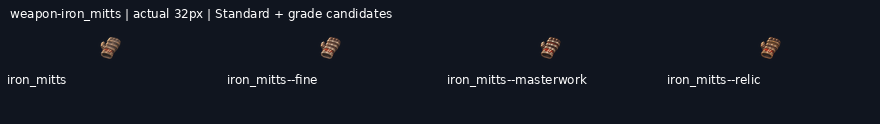
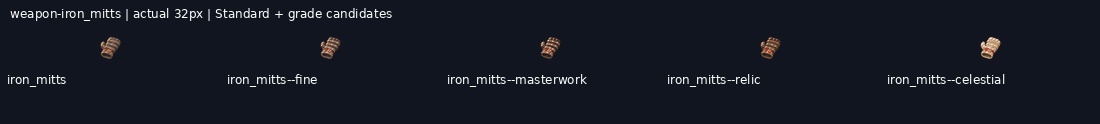
art: draw weapon-iron_mitts--celestial grade candidate

diff --git a/art/_archive/gear/2026-11-19-kept-blade-grades/HANDOFF.md b/art/_archive/gear/2026-11-19-kept-blade-grades/HANDOFF.md
@@ -1,9 +1,9 @@
 # Kept-blade grade candidates
 
-**44/68 grade candidates delivered** on `art/2026-11-19-kept-blade-grades`. Shared mailbox: https://github.com/leonpentastorm/Project-Heaven-Cry/issues/3 . See claim.json for this lane’s current Standards. Released overlapping blades reuse12 peer candidates, with3 local alternatives archived.
+**45/68 grade candidates delivered** on `art/2026-11-19-kept-blade-grades`. Shared mailbox: https://github.com/leonpentastorm/Project-Heaven-Cry/issues/3 . See claim.json for this lane’s current Standards. Released overlapping blades reuse12 peer candidates, with3 local alternatives archived.
 
 Leon requested continuous candidate production; proof approval is not fabricated. All candidates remain review-candidate, production_approved:false, implementation_ready:false, with outline.review_required:true. Exact outline is measured, never asserted unless the masks match. Per-image registration is uniform scaling/translation only, without warp, silhouette masks, filled pixels or code-drawn substitutes. The generated native remains untouched.
 
 Each image is generated, shown, technically exported, validated, committed and pushed before the next. Sources, versioned masters, exact prompts/reference hashes,256/128/64/32 exports and grade comparison sheets are retained. Standards and earlier deliveries are unchanged. This sparse checkout cannot validate omitted historical files; full-library validation/build is an integration check on a full checkout.
 
-Remaining: weapon-ork_machete--masterwork, weapon-ork_machete--relic, weapon-ork_machete--celestial, weapon-war_axe--fine, weapon-war_axe--masterwork, weapon-war_axe--relic, weapon-war_axe--celestial, weapon-iron_mitts--celestial, focus-evoker--fine, focus-evoker--masterwork, focus-evoker--relic, focus-evoker--celestial, focus-emanator--fine, focus-emanator--masterwork, focus-emanator--relic, focus-emanator--celestial, focus-visualizer--fine, focus-visualizer--masterwork, focus-visualizer--relic, focus-visualizer--celestial, focus-attuner--fine, focus-attuner--masterwork, focus-attuner--relic, focus-attuner--celestial.
+Remaining: weapon-ork_machete--masterwork, weapon-ork_machete--relic, weapon-ork_machete--celestial, weapon-war_axe--fine, weapon-war_axe--masterwork, weapon-war_axe--relic, weapon-war_axe--celestial, focus-evoker--fine, focus-evoker--masterwork, focus-evoker--relic, focus-evoker--celestial, focus-emanator--fine, focus-emanator--masterwork, focus-emanator--relic, focus-emanator--celestial, focus-visualizer--fine, focus-visualizer--masterwork, focus-visualizer--relic, focus-visualizer--celestial, focus-attuner--fine, focus-attuner--masterwork, focus-attuner--relic, focus-attuner--celestial.
